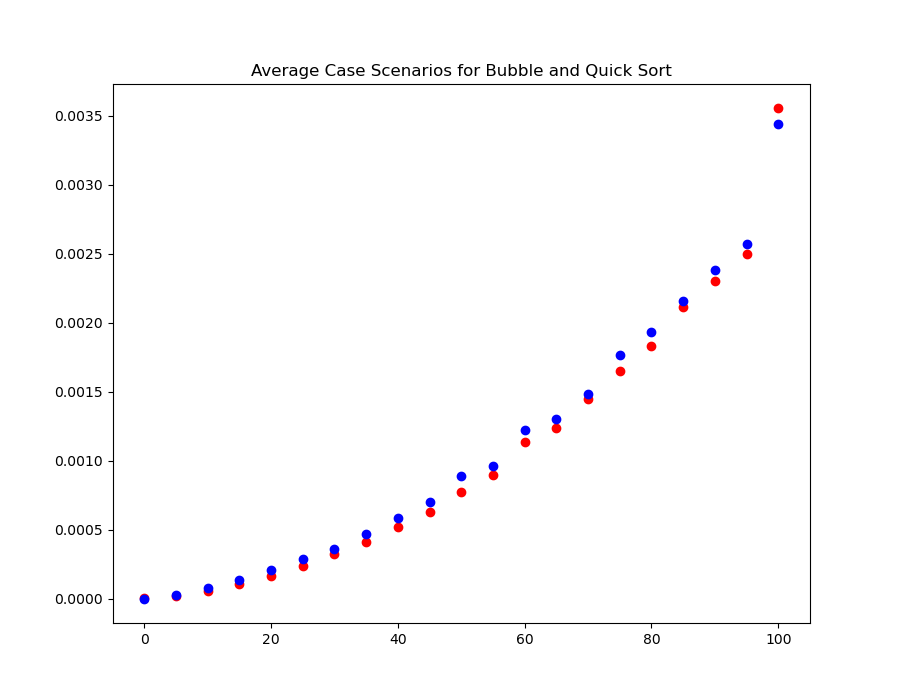
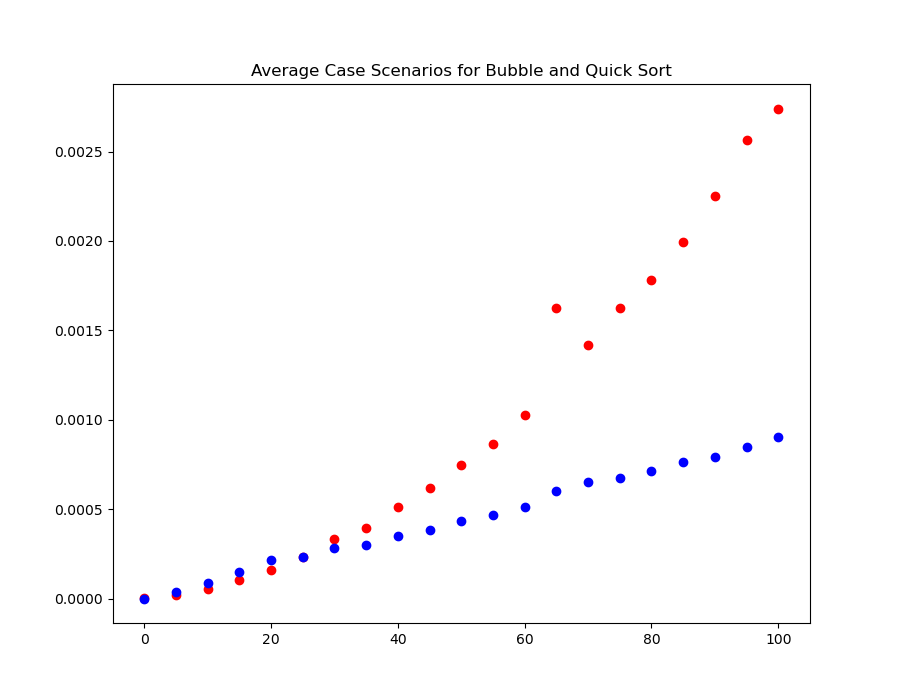
Completed Ex2

diff --git a/ex2.py b/ex2.py
@@ -41,12 +41,12 @@ def quicksort(arr, low, high):
         quicksort(arr, pivot_index+1, high)
 
 def partition_best(arr, low, high):     #Chooses middle element of array as pivot
-    pivot = arr[(low  + high) // 2]      #Floor division to ensure result is an integer
+    pivot = arr[(low + high) // 2]      #Floor division to ensure result is an integer
     left = low + 1
     right = high
     done = False
 
-    arr[low], arr[(low  + high) // 2] = arr[(low  + high) // 2], arr[low]
+    arr[low], arr[(low + high) // 2] = arr[(low + high) // 2], arr[low]
 
     while not done:
         while left <= right and arr[left] <= pivot:
@@ -82,7 +82,6 @@ for list_length in list_lengths:
 
     numbers_reverse = numbers[::-1]
     numbers_shuffle = random.sample(numbers, n)
-    random.shuffle(numbers_shuffle)
 
     #Best case for bubble sort: Array is already sorted
     #Best case for quick sort: Array is partitionined in half every time
@@ -93,7 +92,7 @@ for list_length in list_lengths:
 
     bubble_avg_tm = timeit.timeit(lambda: bubble_sort(numbers_shuffle), number=100)
     bubble_avg_times.append(bubble_avg_tm / 10)
-    quicksort_avg_tm = timeit.timeit(lambda: quicksort(numbers_shuffle, 0, n-1), number=100)
+    quicksort_avg_tm = timeit.timeit(lambda: quicksort_best(numbers_shuffle, 0, n-1), number=100)
     quicksort_avg_times.append(quicksort_avg_tm / 10)
 
     #Worst case for bubble sort: Array is sorted in reverse
